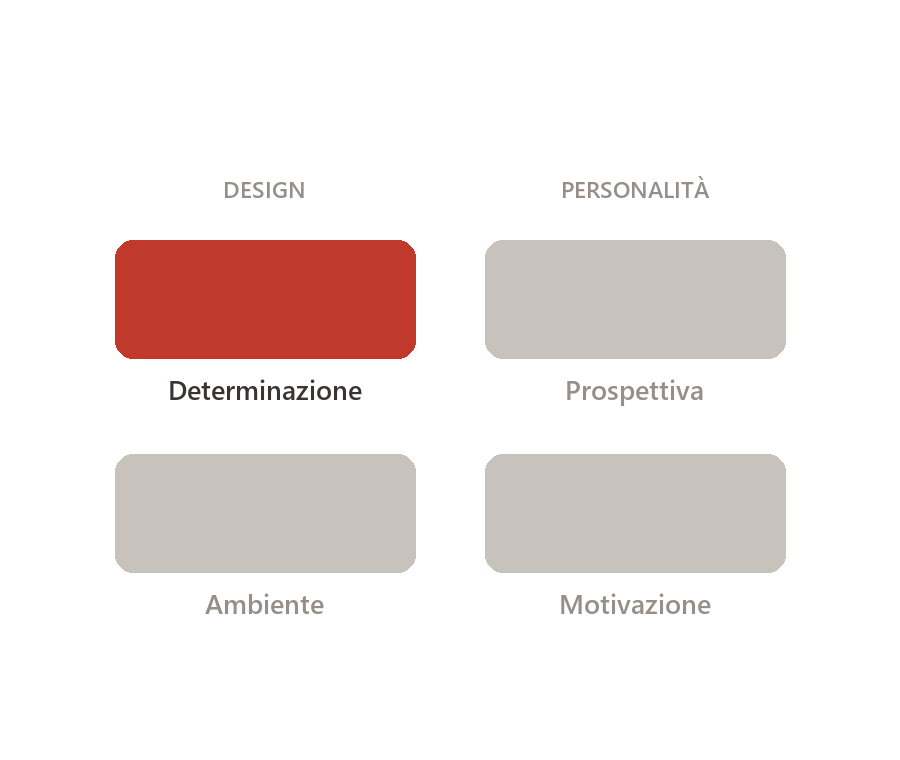
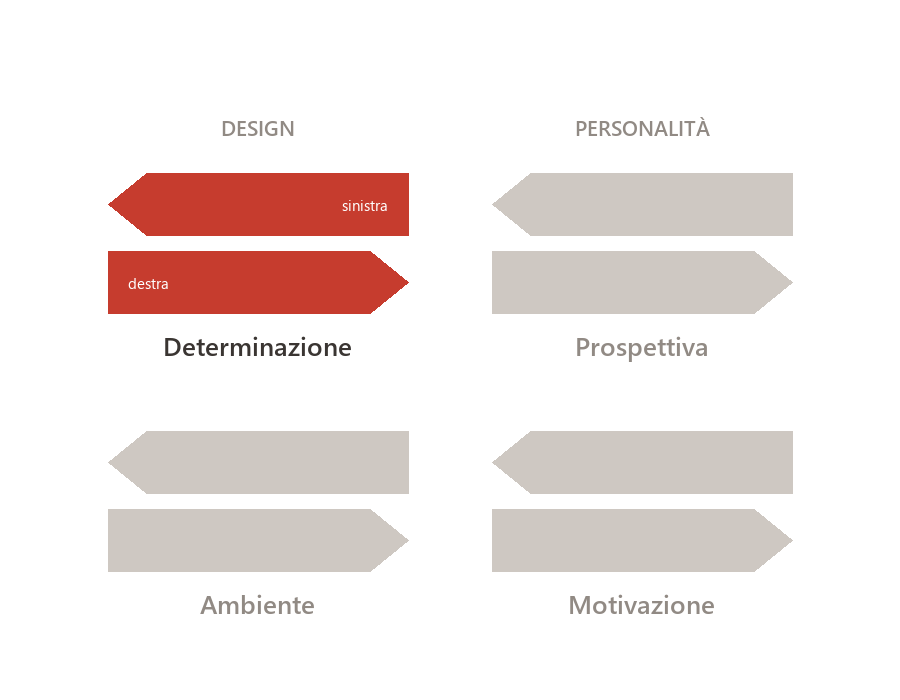
variabili: frecce vere al posto dei rettangoli, in tutte e due le direzioni
Le Variabili nel bodygraph sono frecce con la punta, non rettangoli, e
ognuna punta a destra o a sinistra a seconda della persona. Adesso ogni
posizione ne mostra due, una per verso, con la direzione scritta sopra
quella della pagina. L'indice spiega che e' la direzione a dire come
funziona quella Variabile per te.

Antigravity-Session-ID: 0987b7a5-5ad3-4a1c-a0b9-eafe66b303f5
Antigravity-Session-Path: C:\Users\marco\.gemini\antigravity\brain\0987b7a5-5ad3-4a1c-a0b9-eafe66b303f5

diff --git a/tools/bg5-generator/frecce_variabili.py b/tools/bg5-generator/frecce_variabili.py
@@ -3,37 +3,51 @@
 
 Nel bodygraph stanno a coppie: a sinistra il Design (rosso), a destra la
 Personalita' (nero). In alto Determinazione e Prospettiva, in basso Ambiente
-e Motivazione. La direzione (destra o sinistra) cambia da persona a persona,
-quindi qui si mostrano solo le posizioni, con accesa quella della pagina.
+e Motivazione.
+
+Ogni freccia punta a destra oppure a sinistra, e la direzione cambia da
+persona a persona: per questo ogni posizione ne mostra due, una per verso.
+Quella di cui parla la pagina e' colorata, le altre restano grigie.
 
     py tools/bg5-generator/frecce_variabili.py
 """
 import os
-import sys
 
 from PIL import Image, ImageDraw, ImageFont
 
 RADICE = os.path.dirname(os.path.dirname(os.path.dirname(os.path.abspath(__file__))))
 BASE = os.path.join(RADICE, "grav-site", "user", "pages", "human-design", "07.variabili")
 
-SPENTO = (200, 194, 188, 255)
-PERSONALITA = (26, 26, 46, 255)
-DESIGN = (192, 57, 43, 255)
+SPENTO = (206, 200, 194, 255)
+PERSONALITA = (43, 45, 66, 255)
+DESIGN = (198, 60, 46, 255)
 INK = (58, 53, 50, 255)
-MUTO = (150, 143, 137, 255)
+MUTO = (145, 138, 132, 255)
 
-L, A = 900, 760
-LARG, ALT, GAP_X, GAP_Y = 300, 118, 70, 96
+L, A = 900, 700
+LARG, ALT, SPAZIO_FRECCE, GAP_X, GAP_Y = 300, 62, 16, 84, 118
 
 
 def _font(dim, grassetto=True):
-    for nome in (("seguisb.ttf", "segoeuib.ttf", "arialbd.ttf") if grassetto
-                 else ("segoeui.ttf", "arial.ttf")):
+    nomi = ("seguisb.ttf", "segoeuib.ttf", "arialbd.ttf") if grassetto else ("segoeui.ttf", "arial.ttf")
+    for n in nomi:
         try:
-            return ImageFont.truetype(nome, dim)
+            return ImageFont.truetype(n, dim)
         except OSError:
             continue
     return ImageFont.load_default()
+
+
+def freccia(d, x, y, larg, alt, verso, colore):
+    """Pentagono con la punta, come nel bodygraph. verso: 'destra' o 'sinistra'."""
+    p = int(alt * 0.62)
+    if verso == "destra":
+        punti = [(x, y), (x + larg - p, y), (x + larg, y + alt / 2),
+                 (x + larg - p, y + alt), (x, y + alt)]
+    else:
+        punti = [(x + larg, y), (x + p, y), (x, y + alt / 2),
+                 (x + p, y + alt), (x + larg, y + alt)]
+    d.polygon(punti, fill=colore)
 
 
 # posizione: (colonna, riga, etichetta, colore acceso)
@@ -48,24 +62,33 @@ SLOT = {
 def frecce(accesa=None):
     img = Image.new("RGBA", (L, A), (255, 255, 255, 0))
     d = ImageDraw.Draw(img)
-    f_et = _font(27)
-    f_col = _font(23)
+    f_et = _font(26)
+    f_col = _font(21)
+    f_verso = _font(15, grassetto=False)
 
+    alt_slot = 2 * ALT + SPAZIO_FRECCE
     tot_l = 2 * LARG + GAP_X
-    tot_a = 2 * ALT + GAP_Y
+    tot_a = 2 * alt_slot + GAP_Y
     x0 = (L - tot_l) // 2
-    y0 = (A - tot_a) // 2 + 26
+    y0 = (A - tot_a) // 2 + 22
 
-    d.text((x0 + LARG // 2, y0 - 52), "DESIGN", font=f_col, anchor="mm", fill=MUTO)
-    d.text((x0 + LARG + GAP_X + LARG // 2, y0 - 52), "PERSONALITÀ", font=f_col, anchor="mm", fill=MUTO)
+    d.text((x0 + LARG // 2, y0 - 46), "DESIGN", font=f_col, anchor="mm", fill=MUTO)
+    d.text((x0 + LARG + GAP_X + LARG // 2, y0 - 46), "PERSONALITÀ", font=f_col, anchor="mm", fill=MUTO)
 
     for nome, (col, riga, etichetta, colore) in SLOT.items():
         x = x0 + col * (LARG + GAP_X)
-        y = y0 + riga * (ALT + GAP_Y)
+        y = y0 + riga * (alt_slot + GAP_Y)
         acceso = nome == accesa
-        d.rounded_rectangle([x, y, x + LARG, y + ALT], radius=18,
-                            fill=colore if acceso else SPENTO)
-        d.text((x + LARG // 2, y + ALT + 30), etichetta, font=f_et, anchor="mm",
+        c = colore if acceso else SPENTO
+
+        freccia(d, x, y, LARG, ALT, "sinistra", c)
+        freccia(d, x, y + ALT + SPAZIO_FRECCE, LARG, ALT, "destra", c)
+
+        if acceso:
+            d.text((x + LARG - 20, y + ALT / 2), "sinistra", font=f_verso, anchor="rm", fill=(255, 255, 255, 235))
+            d.text((x + 20, y + ALT + SPAZIO_FRECCE + ALT / 2), "destra", font=f_verso, anchor="lm", fill=(255, 255, 255, 235))
+
+        d.text((x + LARG // 2, y + alt_slot + 32), etichetta, font=f_et, anchor="mm",
                fill=INK if acceso else MUTO)
     return img
 

diff --git a/grav-site/user/pages/human-design/07.variabili/glossario.md b/grav-site/user/pages/human-design/07.variabili/glossario.md
@@ -8,8 +8,8 @@ nome_breve: Variabili
 seo_title: 'Variabili e PHS Human Design: le quattro frecce'
 seo_desc: 'Le quattro Variabili dello Human Design: Determinazione, Ambiente, Prospettiva e Motivazione. Cosa sono, e perché richiedono l''ora di nascita al minuto.'
 description: 'Le quattro frecce sopra la testa: come assimili, dove stai bene, come guardi, cosa ti muove. È lo strato più fine della carta.'
-didascalia: 'Le quattro Variabili: due dal Design, due dalla Personalità'
-alt_immagine: 'Le quattro posizioni delle Variabili: Determinazione e Ambiente a sinistra, Prospettiva e Motivazione a destra'
+didascalia: 'Le quattro Variabili: ogni freccia punta a destra o a sinistra'
+alt_immagine: 'Le quattro Variabili disegnate come frecce: Determinazione e Ambiente dal Design, Prospettiva e Motivazione dalla Personalità'
 etichetta_figlie: Le quattro
 titolo_figlie: Una per una
 richiamo: Il <a href="/libretto-istruzioni">Libretto d&rsquo;Istruzioni</a> arriva fino alla tua Determinazione e al tuo Ambiente, con le indicazioni pratiche scritte sulla tua carta.
@@ -31,6 +31,8 @@ Sopra la testa del bodygraph ci sono **quattro frecce**. Sono le **Variabili**, 
 Due vengono dal **Design**, la parte inconscia: la **Determinazione**, cioè come assimili, e l'**Ambiente**, cioè dove stai bene. Due vengono dalla **Personalità**, la parte che riconosci: la **Prospettiva**, cioè come guardi le cose, e la **Motivazione**, cioè cosa ti mette in moto.
 
 La Determinazione ha anche un nome suo: **PHS**, *Primary Health System*.
+
+Ogni freccia punta **a destra o a sinistra**, e la direzione cambia da persona a persona: è quella a dire come funziona quella Variabile per te. Nel calcolo la trovi scritta in forma compatta, per esempio **PLR DLR**.
 
 ## Dove le trovi
 

diff --git a/grav-site/user/pages/human-design/07.variabili/01.determinazione/glossario.md b/grav-site/user/pages/human-design/07.variabili/01.determinazione/glossario.md
@@ -9,8 +9,8 @@ seo_title: 'PHS Human Design: la Determinazione e l''alimentazione'
 seo_desc: 'La Determinazione nello Human Design, il PHS: come il corpo assimila il cibo. Perché non è una dieta e perché serve l''ora di nascita al minuto.'
 description: 'Come il tuo corpo assimila. Non è una dieta: è il modo in cui il cibo va incontrato.'
 richiamo: 'Il <a href="/libretto-istruzioni">Libretto d&rsquo;Istruzioni</a> arriva fino a questa parte: cosa cambia concretamente nel tuo modo di mangiare, scritto sulla tua carta.'
-didascalia: 'La Determinazione: la prima freccia del Design'
-alt_immagine: Le quattro Variabili con la Determinazione evidenziata in alto a sinistra
+didascalia: 'La Determinazione: la prima freccia del Design, destra o sinistra'
+alt_immagine: Le quattro Variabili con la Determinazione evidenziata, nelle due direzioni possibili
 chiusa_titolo: Vuoi leggere il tuo PHS?
 chiusa_testo: Nella Prima Lettura verifichiamo prima l'ora di nascita, poi guardiamo cosa cambia davvero nel tuo modo di mangiare.
 faq:

diff --git a/grav-site/user/pages/human-design/07.variabili/02.ambiente/glossario.md b/grav-site/user/pages/human-design/07.variabili/02.ambiente/glossario.md
@@ -9,8 +9,8 @@ seo_title: 'Ambiente corretto Human Design: la seconda Variabile'
 seo_desc: 'L''Ambiente nello Human Design: il tipo di spazio in cui il corpo funziona meglio. Cosa descrive e perché va letto sulla carta, non su una lista.'
 description: Il tipo di spazio in cui il tuo corpo si rilassa. Riguarda il posto, non le persone.
 richiamo: 'Il <a href="/libretto-istruzioni">Libretto d&rsquo;Istruzioni</a> arriva fino a questa parte: che spazi cercare e quali evitare, sulla base della tua carta.'
-didascalia: 'L''Ambiente: la seconda freccia del Design'
-alt_immagine: Le quattro Variabili con l'Ambiente evidenziato in basso a sinistra
+didascalia: 'L''Ambiente: la seconda freccia del Design, destra o sinistra'
+alt_immagine: Le quattro Variabili con l'Ambiente evidenziato, nelle due direzioni possibili
 chiusa_titolo: Sai qual è il tuo Ambiente?
 chiusa_testo: Nella Prima Lettura vediamo che tipo di spazi ti fanno bene, e perché in certi posti non riesci a stare.
 faq:

diff --git a/grav-site/user/pages/human-design/07.variabili/03.prospettiva/glossario.md b/grav-site/user/pages/human-design/07.variabili/03.prospettiva/glossario.md
@@ -9,8 +9,8 @@ seo_title: 'Prospettiva Human Design: la Variabile della Personalità'
 seo_desc: 'La Prospettiva nello Human Design: la lente attraverso cui guardi le cose. Cosa descrive e perché è una lettura personale, non una categoria.'
 description: Da che parte guardi le cose. È la lente che usi senza accorgerti di usarla.
 richiamo: Il <a href="/libretto-istruzioni">Libretto d&rsquo;Istruzioni</a> parte da qui per spiegare perché certe cose ti sembrano ovvie e ad altri no.
-didascalia: 'La Prospettiva: la prima freccia della Personalità'
-alt_immagine: Le quattro Variabili con la Prospettiva evidenziata in alto a destra
+didascalia: 'La Prospettiva: la prima freccia della Personalità, destra o sinistra'
+alt_immagine: Le quattro Variabili con la Prospettiva evidenziata, nelle due direzioni possibili
 chiusa_titolo: Qual è la tua Prospettiva?
 chiusa_testo: Nella Prima Lettura guardiamo la tua lente e cosa ti fa vedere che agli altri sfugge.
 faq:

diff --git a/grav-site/user/pages/human-design/07.variabili/04.motivazione/glossario.md b/grav-site/user/pages/human-design/07.variabili/04.motivazione/glossario.md
@@ -9,8 +9,8 @@ seo_title: 'Motivazione Human Design: la quarta Variabile'
 seo_desc: 'La Motivazione nello Human Design: la spinta che sta sotto le ragioni che ci raccontiamo. Cosa descrive e perché va letta insieme al resto della carta.'
 description: Cosa ti mette in moto davvero, sotto le ragioni che ti racconti.
 richiamo: Il <a href="/libretto-istruzioni">Libretto d&rsquo;Istruzioni</a> ti aiuta a distinguere la spinta vera dalla giustificazione, sulle scelte che hai in corso.
-didascalia: 'La Motivazione: la seconda freccia della Personalità'
-alt_immagine: Le quattro Variabili con la Motivazione evidenziata in basso a destra
+didascalia: 'La Motivazione: la seconda freccia della Personalità, destra o sinistra'
+alt_immagine: Le quattro Variabili con la Motivazione evidenziata, nelle due direzioni possibili
 chiusa_titolo: Cosa ti muove davvero?
 chiusa_testo: Nella Prima Lettura guardiamo la tua Motivazione e dove sta lavorando contro di te.
 faq:
